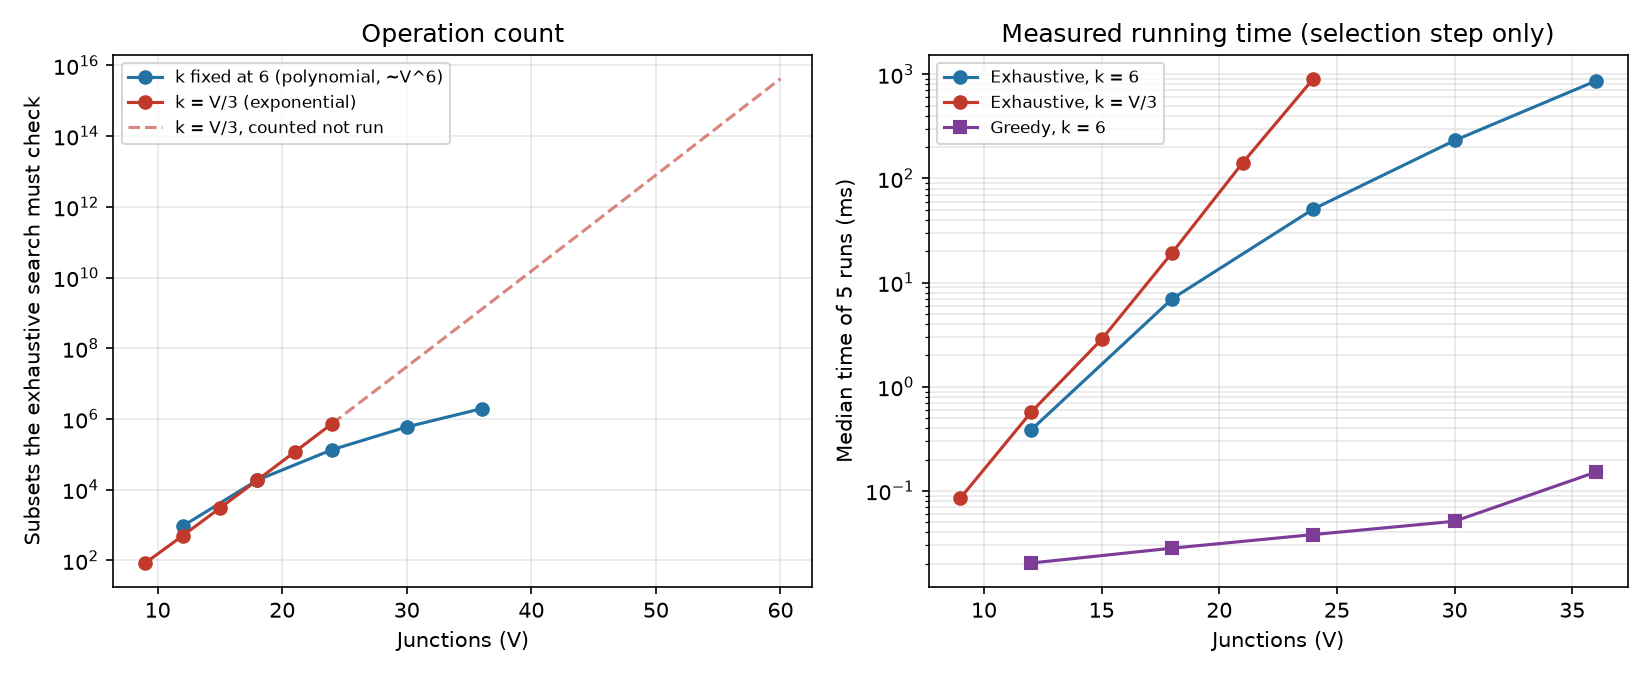
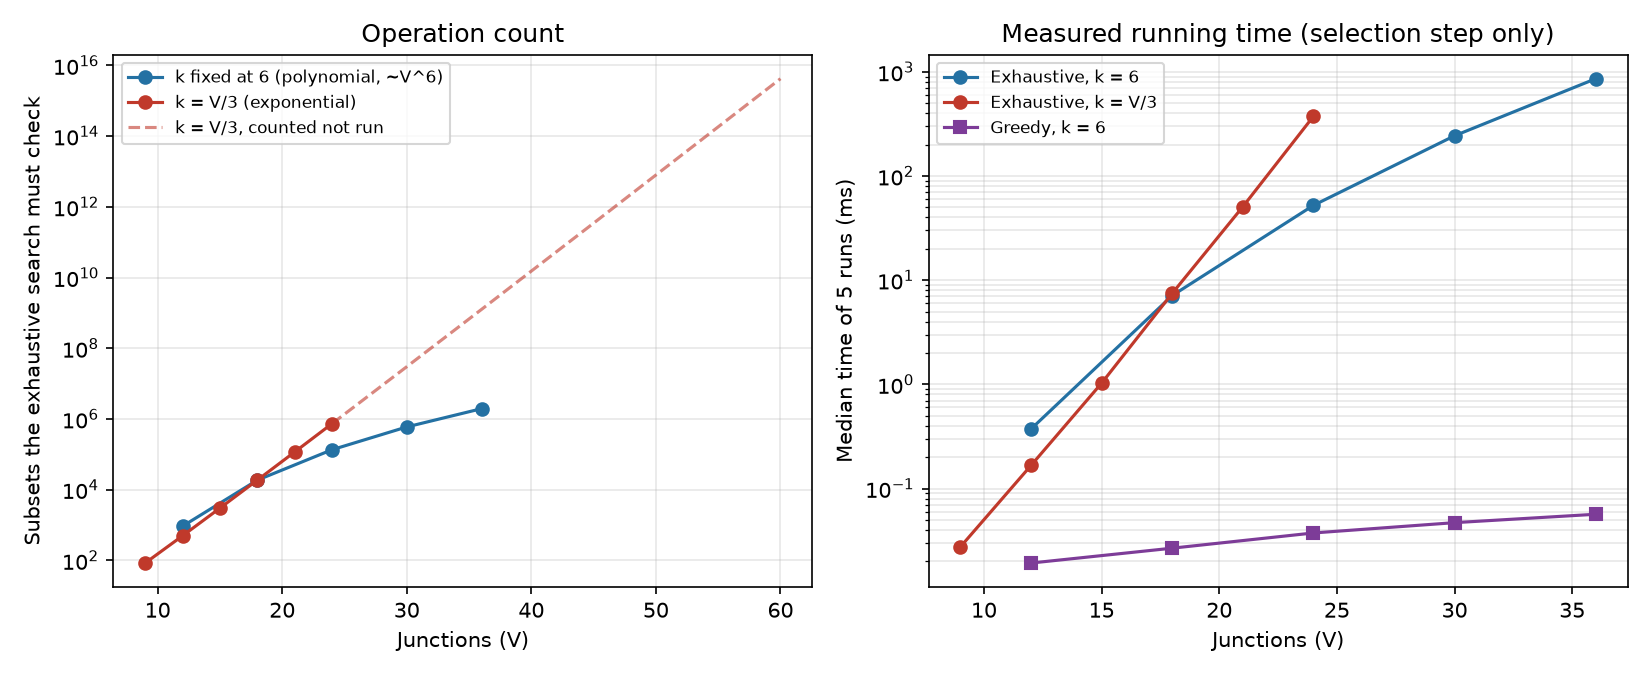
readme  updated

diff --git a/benchmark.py b/benchmark.py
@@ -34,7 +34,7 @@ def median_time(func, runs: int = RUNS, warmup: int = WARMUP, batch: int = 1) ->
         times.append((end - start) / batch)
     return statistics.median(times)
 
-    """This function saves our results to a CSV in the results folder, rounding decimals to 4 places."""
+"""This function saves our results to a CSV in the results folder, rounding decimals to 4 places."""
 def save_csv(rows: list[dict], filename: str) -> str:
     os.makedirs(RESULTS_DIR, exist_ok=True)
     path = os.path.join(RESULTS_DIR, filename)
@@ -261,7 +261,10 @@ def run_all_measurements() -> dict:
     }
 
 
-plt = None     
+# matplotlib is only loaded inside plot_all(), so the measurements still run without it.
+plt = None
+
+"""This function reads a CSV from the results folder back into a list of rows."""
 def load(filename: str) -> list[dict]:
     with open(os.path.join(RESULTS_DIR, filename)) as f:
         return list(csv.DictReader(f))
@@ -350,21 +353,7 @@ def _save(name: str) -> None:
     plt.close("all")
     print(f" This has been saved {path}")
 
-
-    global plt
-    try:
-        import matplotlib
-        matplotlib.use("Agg")           # we save the charts as files, so no pop-up window is needed
-        import matplotlib.pyplot as plt
-    except ImportError:
-        print("  matplotlib is not installed, so we skip the charts (pip install matplotlib)")
-        return
-    plot_coverage_vs_stops()
-    plot_exhaustive_scaling()
-    plot_counterexample()
-
-
-    
+"""This function loads matplotlib, then draws and saves all three charts."""
 def plot_all() -> None:
     global plt
     try:
@@ -377,15 +366,6 @@ def plot_all() -> None:
     plot_coverage_vs_stops()
     plot_exhaustive_scaling()
     plot_counterexample()
-
-"""This function runs every measurement in order and saves each one as a CSV in the results folder."""
-def run_all_measurements() -> None:
-    measure_real_network()
-    coverage_vs_stops()
-    tie_break_and_threshold()
-    counterexample_table()
-    scaling_fixed_k()
-    scaling_growing_k()
 
 if __name__ == "__main__":
     run_all_measurements()

diff --git a/README.md b/README.md
@@ -1,2 +1,222 @@
-# DSA_Final-project-Q2
+# DSA Final Project, Question 2: A new bus route and where to put the stops
+
+This Data Structures and Algorithms final project models the Mauritius road network as a weighted graph.
+We use it to answer two questions:
+
+1. **What is the fastest bus route from Curepipe to Pamplemousses?** We answer this with Dijkstra's algorithm.
+2. **Where should we put six bus stops so that as many residential areas as possible are covered?**
+   An area is covered if the shortest travel time between a stop and the area's junction is
+   **at most nine minutes (exactly 9 counts)**. We answer this with the greedy rule the question asks for,
+   and we compare it against the baseline: an exhaustive search over all C(18, 6) = 18,564 ways to pick six stops.
+
+## Project Overview
+
+The point of this project is to show, with real numbers instead of just the theory, when a greedy rule is good enough
+and why it can never be guaranteed to find the best answer.
+
+Running `python main.py --all` does four things:
+
+1. It runs **11 correctness checks** first. If any check fails, the program stops before timing anything,
+   because timing wrong code is pointless.
+2. It prints **the answers**: the fastest route, the greedy stops round by round, the exhaustive best stops and the gap,
+   and our own "trap" network where greedy loses by more.
+3. It **measures** everything. It uses warm-up runs and the median of 5 runs, and it counts operations next to the time.
+   It also checks how exhaustive search grows on bigger random networks.
+4. It saves **6 CSV files and 3 charts** into the `results/` folder for the report.
+
+## Requirements
+
+- **Python 3.10 or newer** (we used Python 3.13). We use `int.bit_count()` and the `X | None` type hints, which need 3.10+.
+- **matplotlib**, only for the charts. If it is missing, everything else still runs and the charts are skipped with a message.
+
+## How to Run
+
+**1. Get the code and open the folder**
+```bash
+git clone https://github.com/sumailasherif/DSA_Final-project-Q2.git
+cd DSA_Final-project-Q2
+```
+
+**2. Install matplotlib**
+```bash
+python -m pip install -r requirements.txt
+```
+(On Windows, if `pip` is "not recognized", use `python -m pip ...` exactly as written above.)
+
+**3. Run the whole project (checks, answers, measurements, CSVs and charts)**
+```bash
+python main.py --all
+```
+This takes under a minute on a normal laptop. Most of the time goes on the scaling test with 36 junctions.
+
+**4. Or use the menu**
+```bash
+python main.py
+```
+
+**5. Or run one part on its own**
+```bash
+python tests.py            # the 11 correctness checks only
+python road_network.py     # prints the network we loaded
+python shortest_paths.py   # fastest route, fewest-roads route, Floyd-Warshall check
+python stop_placement.py   # coverage table, greedy rounds, exhaustive best
+python benchmark.py        # all measurements, CSVs and charts
+```
+
+All files find the CSVs next to themselves, so you can run them from any folder in VS Code.
+
+## Project Structure
+
+```
+DSA_Final-project-Q2/
+│
+├── main.py                       the menu, and --all to run everything
+├── road_network.py               loads the real network, builds random and trap networks
+├── shortest_paths.py             Dijkstra, BFS, Floyd-Warshall
+├── stop_placement.py             9-minute coverage table, greedy, exhaustive search
+├── tests.py                      11 correctness checks
+├── benchmark.py                  timings, operation counts, CSVs and charts
+│
+├── Q2_road_network.csv           25 rows of roads with travel times (minutes)
+├── Q2_residential_areas.csv      18 residential areas and their junctions
+├── requirements.txt              matplotlib
+│
+├── results/                      created by benchmark.py
+│   ├── real_network_results.csv
+│   ├── coverage_vs_stops.csv
+│   ├── tie_break_and_threshold.csv
+│   ├── counterexample.csv
+│   ├── scaling_fixed_k.csv
+│   ├── scaling_growing_k.csv
+│   ├── coverage_vs_stops.png
+│   ├── exhaustive_scaling.png
+│   └── counterexample_gap.png
+│
+└── README.md
+```
+
+## File Descriptions
+
+| File | What is inside |
+|---|---|
+| `main.py` | The interactive menu and `--all`. It ties every other file together, like `Main.py` in our sorting coursework. |
+| `road_network.py` | `load_road_network` reads the roads into an **adjacency list** and keeps each road once. `load_residential_areas` maps each area to its junction. `generate_random_network` builds random networks with the same density as the real one, for scaling tests. `build_trap_network` builds our counterexample. |
+| `shortest_paths.py` | `dijkstra` uses a **binary heap** (`heapq`) with lazy deletion and an optional cutoff, and counts its operations. `fastest_route` and `build_path` give the route. `fewest_roads_route` is BFS (optional extra). `all_pairs_check` is Floyd-Warshall, the alternative we did not choose, which we use to check Dijkstra. |
+| `stop_placement.py` | `build_coverage` runs one Dijkstra from each junction, stopping at 9 minutes. `greedy_place_stops` is the greedy rule with the alphabetical tie-break. `all_greedy_outcomes` follows every possible tie. `exhaustive_best_stops` tries all C(V, k) sets using **bitmasks**. |
+| `tests.py` | 11 checks. They run before any timing. |
+| `benchmark.py` | Six measurement sections and three charts. Everything is saved to `results/`. |
+
+## Program Flow
+
+```
+Start
+|
+v
+Load the network and build the 9-minute coverage table once
+|
+v
+Show menu
+|
+|--- 1 --> Show the road network
+|--- 2 --> Fastest route Curepipe -> Pamplemousses (Dijkstra)
+|--- 3 --> Coverage table (areas within 9 minutes of each junction)
+|--- 4 --> Greedy: place 6 stops, round by round, showing ties
+|--- 5 --> Exhaustive: best 6 stops and the gap to greedy
+|--- 6 --> Counterexample: the trap network where greedy loses by more
+|--- 7 --> Extras: fewest-roads route (BFS) and coverage for 1 to 8 stops
+|--- 8 --> Run everything: checks, answers, measurements, CSVs, charts
+|--- 9 --> Exit
+```
+
+## The Data and Our Assumptions
+
+- **Every road is two-way**, as the question says. The time from a stop to an area is the same as from the area to the stop.
+- **The road CSV has 25 rows but only 24 real roads.** "Moka, St Pierre, 8" and "St Pierre, Moka, 8" are the same road
+  written twice. We keep it once and print a note when loading. Keeping it twice would not change any shortest path,
+  but it would add an extra adjacency entry that Dijkstra checks for nothing.
+- **Exactly 9 minutes counts as covered**, so the code uses `<=`. `test_exactly_nine_counts` checks this boundary.
+- **Stops can only be placed at the 18 junctions**, and each area is covered through the junction it sits at.
+- **Ties in greedy go to the alphabetically first junction name.** We check junctions in A to Z order and only replace
+  the current best if the new one is strictly better. All junction names start with a capital letter, so Python's
+  string order is the same as alphabetical order.
+- **Travel times must be zero or more.** Dijkstra needs this, so the loader stops with an error on a negative time.
+
+## Results That Do Not Depend on the Machine
+
+These numbers are the same on every computer. Timings in milliseconds depend on the machine, so they are in
+`results/real_network_results.csv` and in the report.
+
+| What | Result |
+|---|---|
+| Fastest route | Curepipe → Forest Side → Phoenix → Quatre Bornes → Rose Hill → Beau Bassin → Port Louis → Terre Rouge → Pamplemousses, **59 minutes, 8 roads** |
+| Fewest roads (BFS, optional) | 6 roads but **65 minutes**, because it uses the 25-minute Quatre Bornes to Port Louis road |
+| Greedy six stops | Quatre Bornes, Arsenal, Curepipe, Ebene, Moka, Pailles → **17 of 18 areas** |
+| Exhaustive best six | Arsenal, Curepipe, Moka, Pailles, Quatre Bornes, Trou aux Biches → **18 of 18 areas** (3 different sets reach 18) |
+| Gap on the real network | **1 area**. It comes from one tie in round 4: Ebene and Moka both add 3, and A to Z picks Ebene. |
+| Greedy over every possible tie-break | 360 tie-break paths end on 17, and 24 paths end on 18 |
+| Number of stops 1 to 8 | Greedy matches the best for k = 1, 2, 3, 4, 7 and 8. It is 1 short for k = 5 and 6 |
+| Trap network (m = 8, k = 2) | Greedy 13, best 16, **gap 3, with no tie involved**. The gap grows as m/2 − 1 (1, 3, 5, 7 for m = 4, 8, 12, 16) |
+
+**Operation counts on the real network**
+
+| Step | Main operation | Count |
+|---|---|---|
+| Dijkstra, one route (full search) | relaxations | 19 (20 pops, 2 stale, 48 edge checks) |
+| Coverage table, 18 Dijkstras, full search | relaxations | 352 |
+| Coverage table, 18 Dijkstras, stopping at 9 minutes | relaxations | 111 |
+| Floyd-Warshall (rejected alternative) | inner steps | 5,832 (= 18³) |
+| Greedy, 6 stops | gain evaluations | 93 |
+| Exhaustive, 6 stops | subsets checked | 18,564 (111,384 OR operations) |
+
+## How We Measured
+
+We followed the "Measuring running time" rules from the brief:
+
+- **Warm up first.** Each function runs a few times before the clock starts.
+- **Repeat and take the median.** We use 5 timed runs and report the median.
+- **Garbage collection is switched off during each timed run**, like Python's `timeit` does.
+- **Very fast functions are batched.** One Dijkstra takes microseconds, so it runs many times inside each timed run, and we divide.
+- **We count operations next to the clock.** We count relaxations, gain evaluations and subsets checked. The counts grow
+  exactly as the Big-O analysis says, while the clock also measures the machine.
+- **We only time the part that differs.** Greedy and exhaustive both use the same coverage table, so the table is built
+  once and timed on its own. Only the stop-picking step is timed for each method.
+
+## Correctness Checks (`tests.py`)
+
+| Check | What it proves |
+|---|---|
+| `test_loading` | 18 junctions, 24 roads after the duplicate, 18 areas, every road two-way |
+| `test_dijkstra_matches_all_pairs_check` | Dijkstra agrees with Floyd-Warshall on every pair, on the real network and 15 random ones |
+| `test_fastest_route` | The route is 59 minutes, its road times add up, and the way back takes the same time |
+| `test_cutoff_gives_same_coverage` | Stopping Dijkstra at 9 minutes gives the same table with fewer relaxations |
+| `test_exactly_nine_counts` | 9 minutes counts, 10 does not, and 4 + 5 over two roads counts |
+| `test_alphabetical_tie_break` | In a tie, greedy picks the alphabetically first junction |
+| `test_supplied_answers` | Greedy gets 17, exhaustive gets 18, and exhaustive checks exactly 18,564 sets |
+| `test_greedy_never_beats_exhaustive` | Greedy is never better than exhaustive, and with one stop they are equal |
+| `test_bitmask_search_matches_plain_sets` | The bitmask shortcut gives the same answer as a slow search with normal sets |
+| `test_counterexample` | On the trap network greedy picks Centre with no tie, gets 13, and the best (East + West) gets 16 |
+| `test_bfs_fewest_roads` | BFS finds a 6-road route that is slower than Dijkstra's 8-road route |
+
+## How the Code Matches the Report
+
+| Claim in the report | Where to see it in the code |
+|---|---|
+| Dijkstra uses a binary heap, because "get the closest unsettled junction" is its most frequent operation | `shortest_paths.dijkstra` uses `heapq` and counts `pops` and `stale_pops` |
+| Coverage only needs times up to 9 minutes, so each search can stop early | `dijkstra(..., cutoff=9)` in `stop_placement.build_coverage`: 111 relaxations instead of 352 |
+| Floyd-Warshall always does V³ steps however sparse the roads are | `shortest_paths.all_pairs_check`, `inner_steps` = 5,832 |
+| Exhaustive search joins coverage sets many times, so we use bitmasks | `stop_placement.to_bitmasks` and `exhaustive_best_stops` (OR plus `bit_count`) |
+| Greedy has no guarantee, and the loss is not only about the tie-break | `road_network.build_trap_network` and `benchmark.counterexample_table` |
+| With 6 stops fixed, exhaustive grows like V⁶. When stops grow with the network, it grows exponentially | `benchmark.scaling_fixed_k` and `benchmark.scaling_growing_k`, plus the chart `exhaustive_scaling.png` |
+
+## Limitations
+
+- Travel times are fixed numbers. There is no traffic, time of day, or waiting time at stops.
+- Coverage is all or nothing at exactly 9 minutes. An area 9.5 minutes away counts the same as one an hour away.
+  `benchmark.tie_break_and_threshold` shows the answer changes if the limit is 8 or 10 minutes.
+- Every area counts the same. We do not weight areas by how many people live there.
+- Exhaustive search only works because 6 stops out of 18 is small. For much bigger networks with more stops it is not usable,
+  which is exactly what the scaling tests show.
+- The random networks used for scaling are not real road maps. They only match the real network's density.
+
+The report discusses these limitations in more detail.
 
